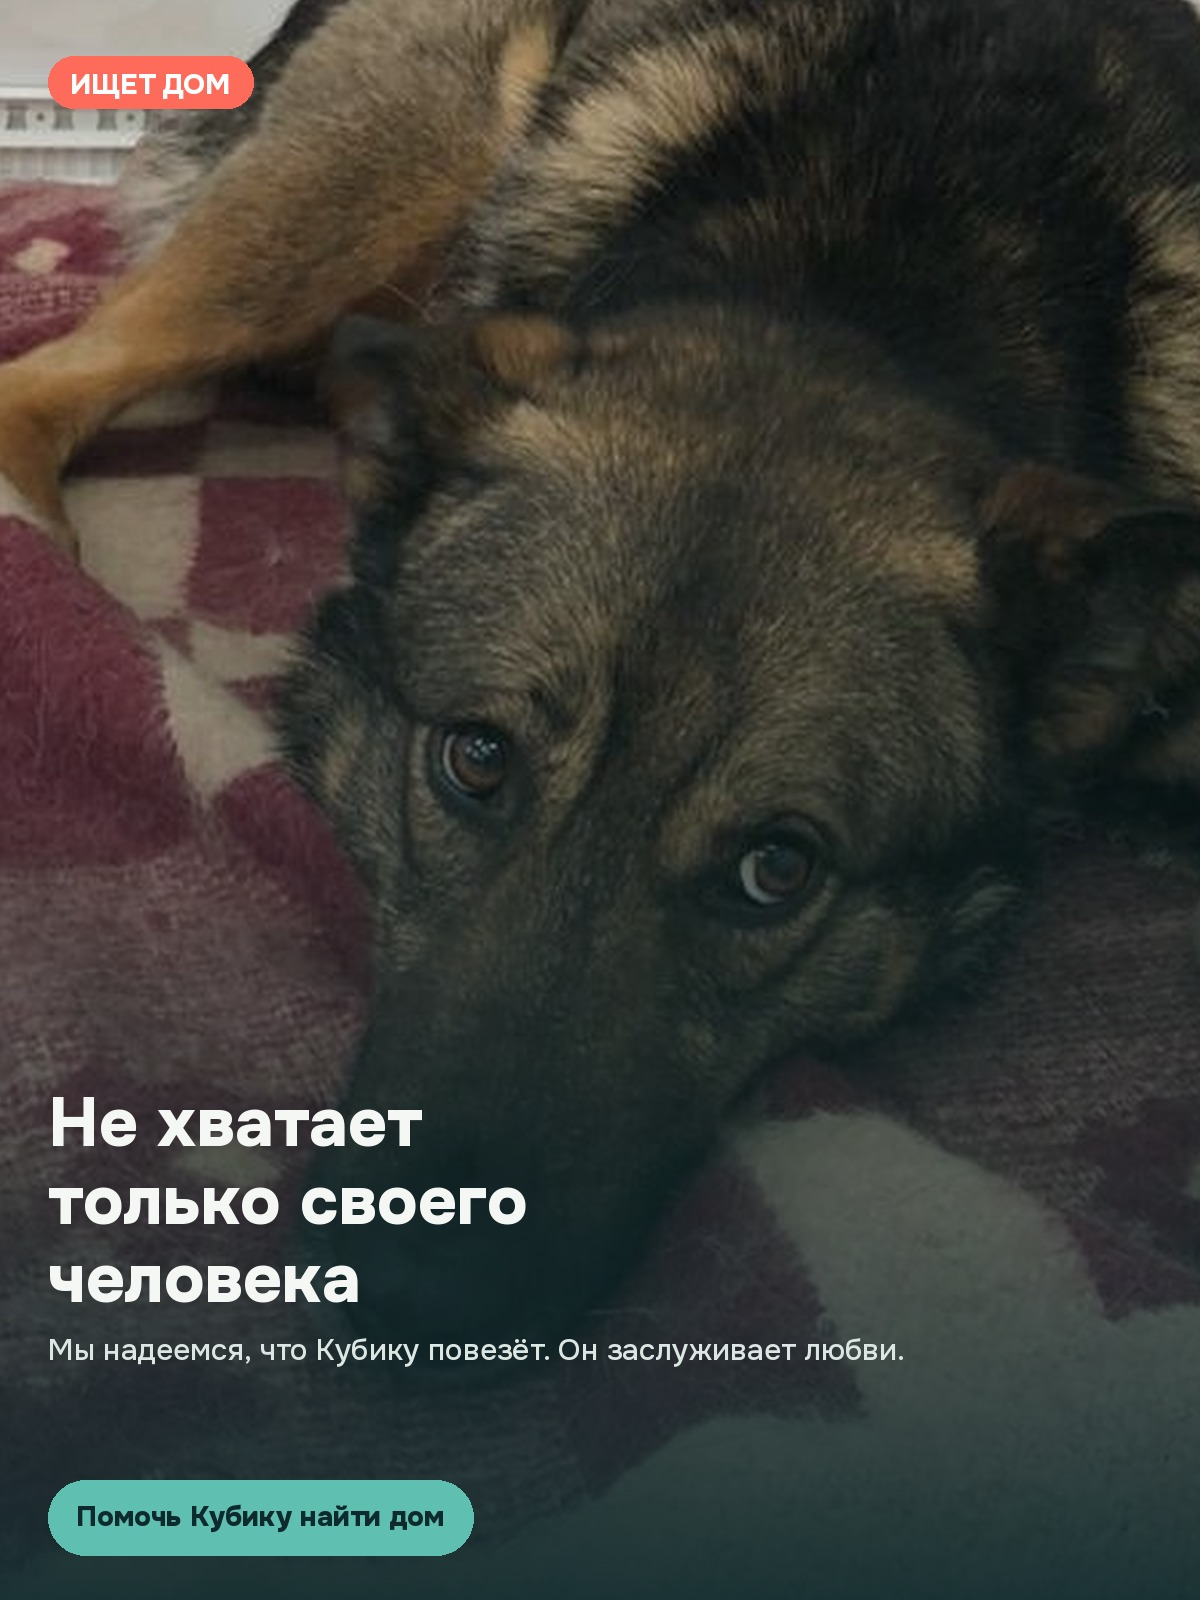
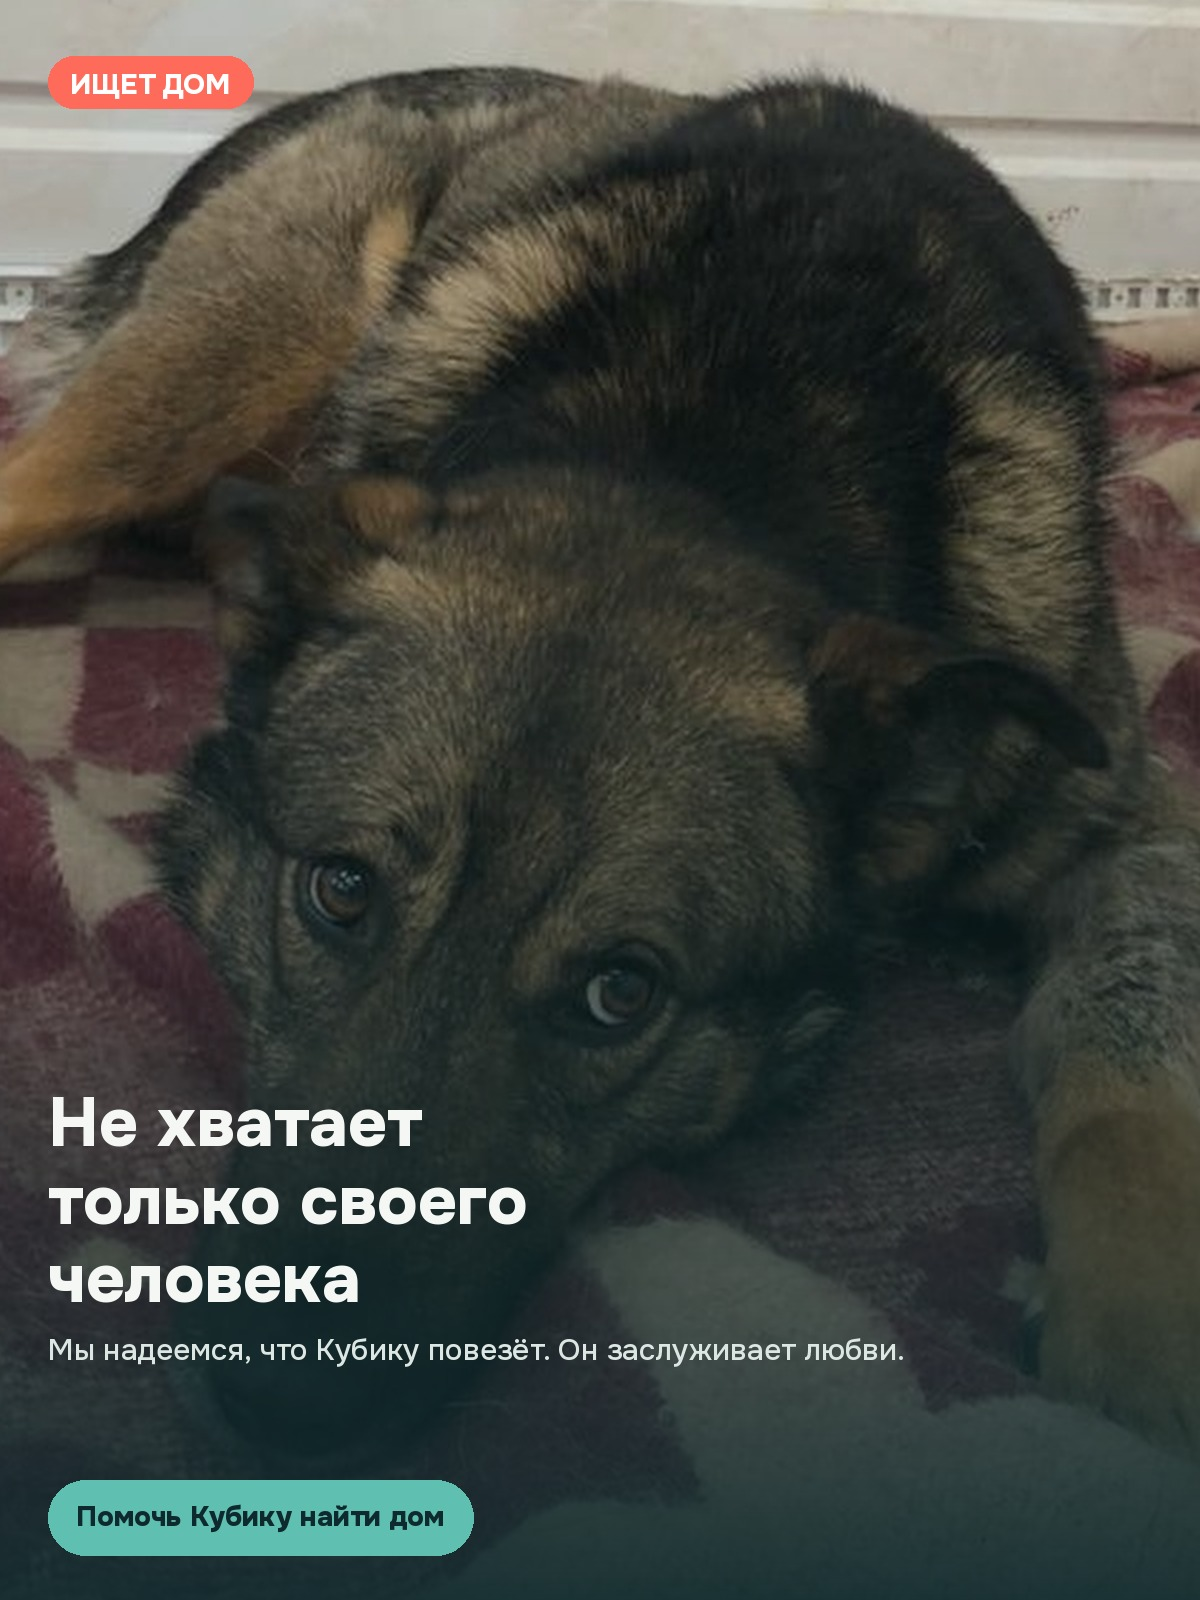
Nudge soft-portrait crop to center Kubik's face

diff --git a/scripts/generate_cards.py b/scripts/generate_cards.py
@@ -46,7 +46,7 @@ FOCUS = {
     "01-outdoor-portrait.jpg": (0.55, 0.62),
     "02-outdoor-yard.jpg": (0.30, 0.62),  # grey/tan Kubik on the left
     "03-recovered-brace.jpg": (0.62, 0.45),
-    "04-soft-portrait.jpg": (0.48, 0.66),
+    "04-soft-portrait.jpg": (0.52, 0.70),
     "05-recovery-bandages.jpg": (0.52, 0.40),
     "06-recovery-crate.jpg": (0.58, 0.50),
     "07-emergency.jpg": (0.52, 0.50),
